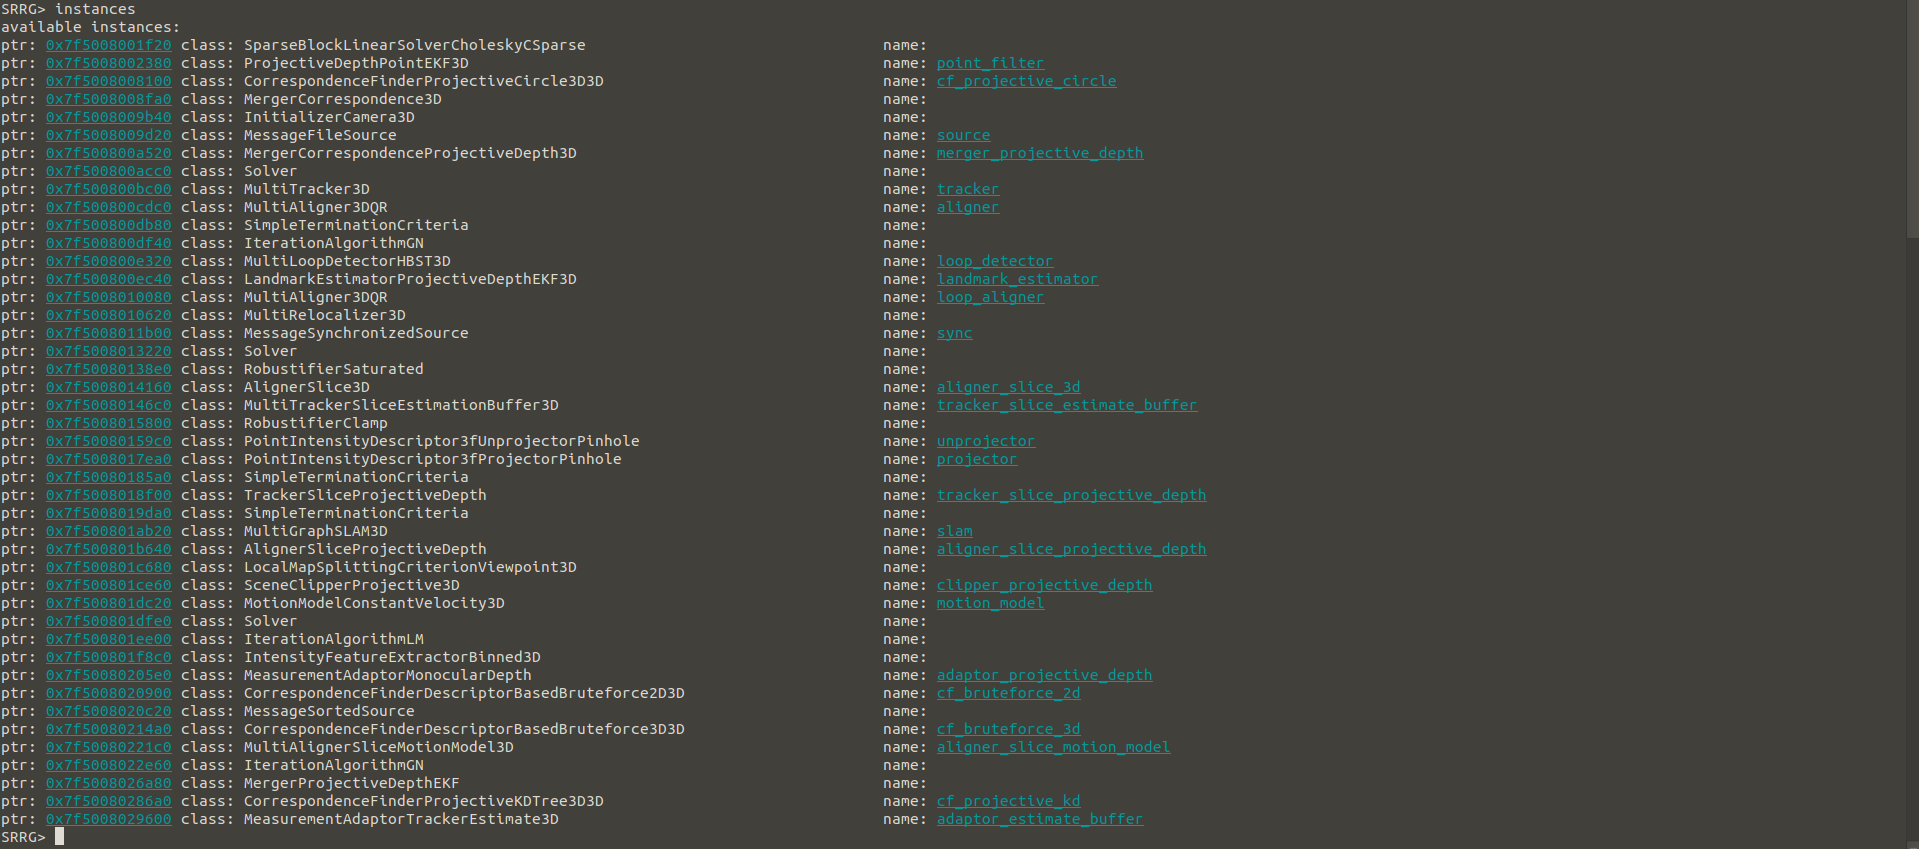
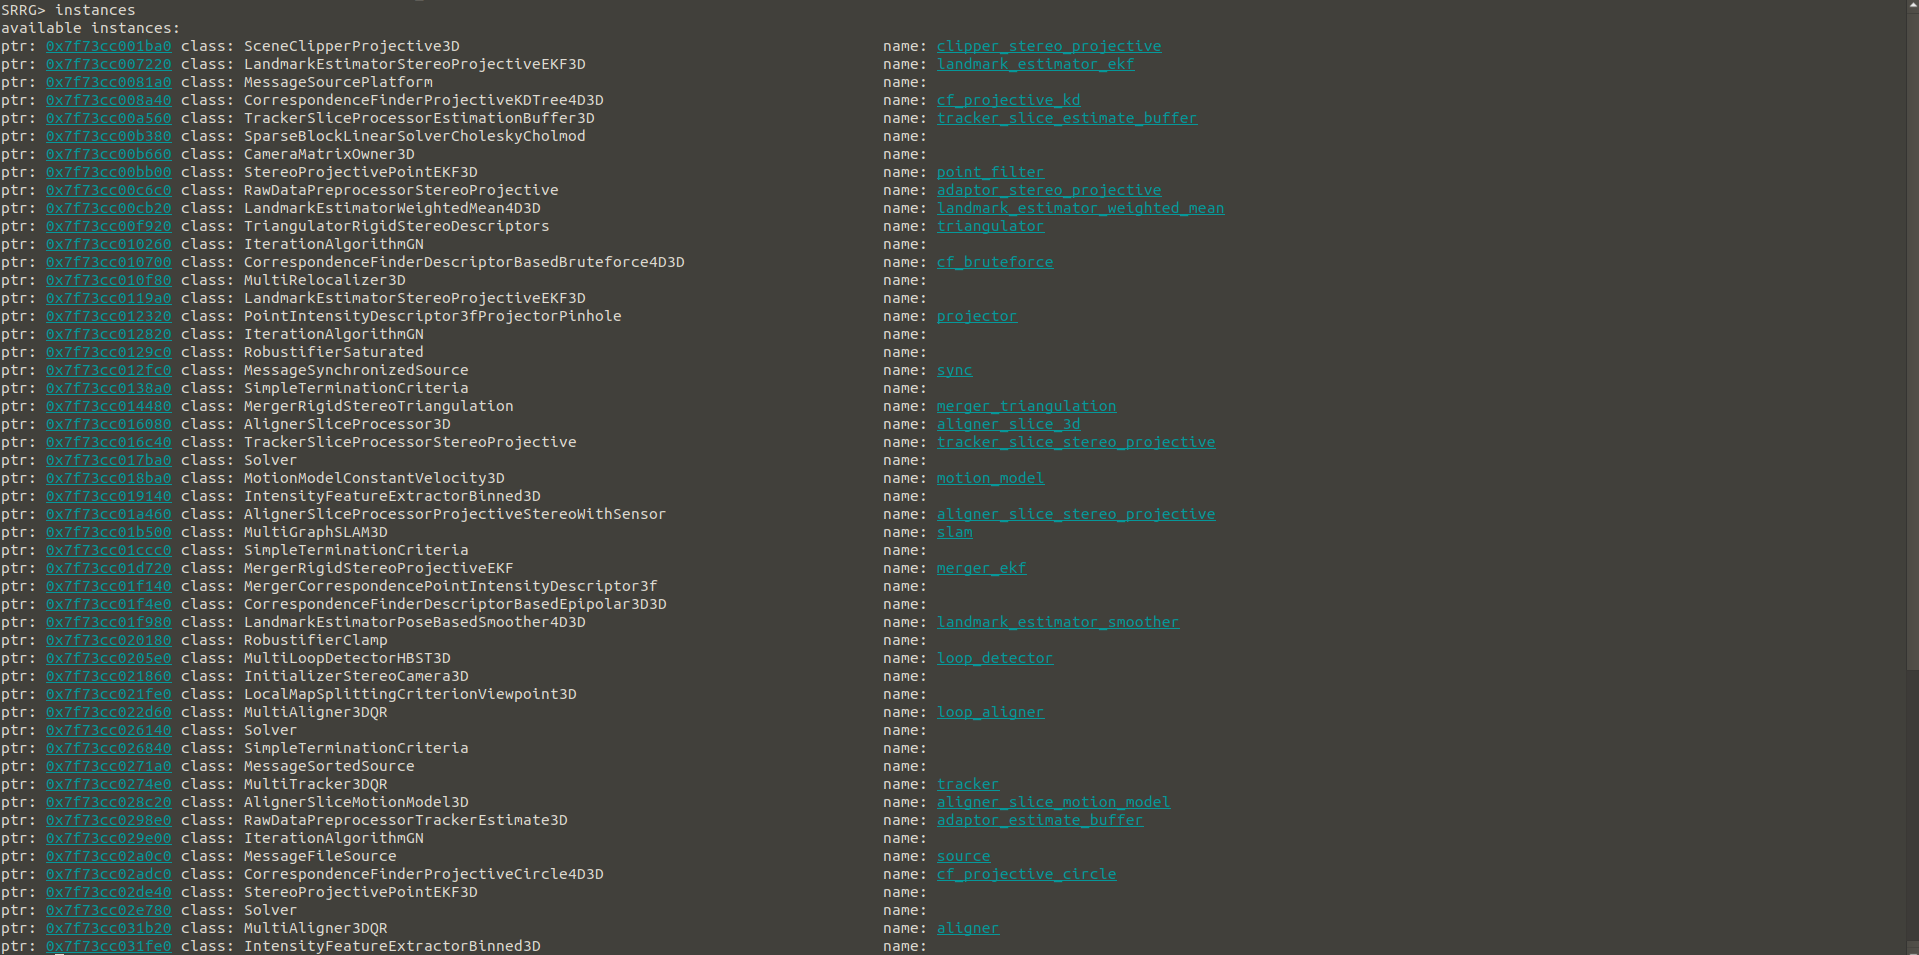
dynamic loading of types + auto_dl_finder + removed all dependencies from useless srrg2 packages

Changed region(s): [[0.0, 0.0, 0.3689, 1.0], [0.4612, 0.0306, 0.6456, 1.0]]

diff --git a/srrg2_executor/src/apps/srrg2_shell.cpp b/srrg2_executor/src/apps/srrg2_shell.cpp
@@ -1,27 +1,14 @@
+#include <dlfcn.h>
+#include <stdlib.h>
+#include <gnu/lib-names.h>
+#include <thread>
 #include <srrg_boss/json_object_writer.h>
 #include <srrg_config/configurable_manager.h>
 #include <srrg_config/configurable_visual_shell.h>
 #include <srrg_config/linenoise.h>
 #include <srrg_system_utils/parse_command_line.h>
 #include <srrg_system_utils/system_utils.h>
-
-// ia basic instances
-#include <srrg_messages/instances.h>
-#include <srrg_messages_ros/instances.h>
-#include <srrg_pcl/instances.h>
-#include <srrg_slam_interfaces/instances.h>
-
-// ia solver instances
-#include <srrg_solver/variables_and_factors/types_2d/instances.h>
-#include <srrg_solver/variables_and_factors/types_3d/instances.h>
-//#include <srrg_solver/calib/instances.h>
-//#include <srrg_solver/linear_solvers/instances.h>
-#include <srrg_solver/solver_core/instances.h>
-
-// ia full systems instances
-#include <srrg2_proslam_tracking/instances.h>
-#include <srrg_laser_slam_2d/instances.h>
-//#include <srrg_shaslam_system/instances.h>
+#include <srrg_system_utils/profiler.h>
 
 // viewer
 #include <srrg_qgl_viewport/viewer_core_shared_qgl.h>
@@ -36,29 +23,13 @@ using namespace srrg2_core;
 using namespace std;
 
 // ia logging
-const std::string app_name("srrg2_shell_app");
+const std::string app_name("srrg2_shell");
 #define LOG std::cerr << app_name + "|"
-
-void registerAllInstances() {
-  srrg2_core::point_cloud_registerTypes();
-  srrg2_core::messages_registerTypes();
-  srrg2_core_ros::messages_ros_registerTypes();
-  srrg2_solver::solver_registerTypes();
-  srrg2_solver::registerTypes2D();
-  srrg2_solver::registerTypes3D();
-  //srrg2_solver::calib_registerTypes();
-  srrg2_laser_tracker_2d::laser_tracker_2d_registerTypes();
-  srrg2_slam_interfaces::slam_interfaces_registerTypes();
-  srrg2_proslam::srrg2_proslam_tracking_registerTypes();
-  //srrg2_shaslam::srrg2_shaslam_registerTypes();
-  //  srrg2_slam_architecture::slam_architecture_multi_graph_sm_registerTypes();
-}
 
 const char* banner[] = {"dynamic executor", 0};
 
 int main(int argc, char** argv) {
   srrgInit(argc, argv, "shell");
-  registerAllInstances();
   Profiler::enable_logging = true;
 
   ParseCommandLine cmd_line(argv, banner);
@@ -75,9 +46,19 @@ int main(int argc, char** argv) {
     "to increse this number [default is 50MB]",
     BUFFER_SIZE_50MEGABYTE);
   ArgumentString conf_file(&cmd_line, "c", "config-file", "config file to load on start", "");
+  ArgumentString dl_stub_file(&cmd_line, "dlc", "dl-config", "stub where to read/write the stub", "");
   cmd_line.parse();
   const std::string exe_name = argv[0];
 
+  if (dl_stub_file.isSet()) {
+    ifstream is(dl_stub_file.value());
+    if (is.good()) {
+      ConfigurableManager::initFactory(dl_stub_file.value());
+    } else {
+      ConfigurableManager::makeFactoryStub(dl_stub_file.value());
+    }
+  }
+  ConfigurableManager manager;
   StringVector commands;
   if (conf_file.isSet()) {
     std::string open_command = std::string("open ") + conf_file.value();
@@ -131,7 +112,7 @@ int main(int argc, char** argv) {
   }
 
   // ds allocate a shell with visualization support
-  ConfigurableVisualShell shell;
+  ConfigurableVisualShell shell(manager);
   if (viewer_core) {
     shell.viewer_core = viewer_core;
     viewer_core->stop();

diff --git a/srrg2_executor/src/apps/auto_dl_finder.cpp b/srrg2_executor/src/apps/auto_dl_finder.cpp
@@ -1,0 +1,86 @@
+#include <cstdio>
+#include <cstdlib>
+#include <srrg_boss/serializer.h>
+#include <srrg_config/configurable_manager.h>
+#include <srrg_system_utils/parse_command_line.h>
+#include <srrg_system_utils/system_utils.h>
+#include <unistd.h>
+
+#ifdef DEVEL_SPACE
+std::string devel_space = DEVEL_SPACE;
+#endif
+
+#define MAX_PATH_LEN 512
+
+using namespace srrg2_core;
+// srrg getting bash output [link:
+// https://www.jeremymorgan.com/tutorials/c-programming/how-to-capture-the-output-of-a-linux-command-in-c/]
+std::vector<std::string> getStdOutFromCommand(std::string& cmd) {
+  std::vector<std::string> data;
+  FILE* stream;
+  const int max_buffer = 2048;
+  char buffer[max_buffer];
+  cmd += " 2>&1";
+
+  stream = popen(cmd.c_str(), "r");
+  if (stream) {
+    while (!feof(stream)) {
+      if (fgets(buffer, max_buffer, stream) != NULL) {
+        data.push_back(buffer);
+      }
+    }
+    pclose(stream);
+  }
+  return data;
+}
+const char* banner[] = {"auto dl finder", "assumption: using catkin as building system", 0};
+
+int main(int argc, char** argv) {
+#ifndef DEVEL_SPACE
+  std::cerr << "NO DEVEL SPACE DEFINED" << std::endl;
+  return -1;
+#endif
+
+  srrgInit(argc, argv, "auto_dl_finder");
+
+  char cwd[MAX_PATH_LEN];
+  if (!getcwd(cwd, MAX_PATH_LEN)) {
+    throw std::runtime_error("unable to get the current working directory");
+  }
+  ParseCommandLine cmd_line(argv, banner);
+  ArgumentString dl_stub_file(
+    &cmd_line, "dlc", "dl-config", "stub where to read/write the stub", "dl.conf");
+  cmd_line.parse();
+
+  std::string stripped_devel_space = devel_space.substr(0, devel_space.find("devel") + 5);
+  std::cerr << "looking for dynamic libraries in " << stripped_devel_space << std::endl;
+
+  std::string output_file(cwd);
+  output_file += "/" + dl_stub_file.value();
+  Serializer ser;
+  ser.setFilePath(output_file);
+  DynamicLoaderConfig loader;
+
+  loader.so_paths.pushBack(stripped_devel_space);
+  if (chdir(stripped_devel_space.c_str()) != 0) {
+    std::string error_message = "unable to chdir to " + stripped_devel_space;
+    throw std::runtime_error(error_message.c_str());
+  };
+  std::string command = "find * \\( -type l -o -type f \\) -name '*.so' ";
+  // srrg exclude already loaded libraries
+  //  command += "! -path '*_core*' ! -path '*qgl_viewport*' ";
+  std::vector<std::string> things = getStdOutFromCommand(command);
+
+  for (auto a : things) {
+    a.erase(std::remove(a.begin(), a.end(), '\n'), a.end());
+    loader.so_names.pushBack(a);
+  }
+
+  for (int i = 0; i < loader.so_names.size(); ++i) {
+    std::cerr << loader.so_names.value(i) << std::endl;
+  }
+
+  std::cerr << "serializing " << output_file << std::endl;
+  ser.writeObject(loader);
+  return 0;
+}

diff --git a/srrg2_executor/readme.md b/srrg2_executor/readme.md
@@ -1,6 +1,6 @@
 # Package `srrg2_executor`
 
-Interactive shell to run and modify configurations on the fly. Viewer can be attached (both locally - in shared mode - and remotely - in ROS mode). Dependencies: the complete `srrg2` suite (for now). Dynamic types loading is coming soon.
+Interactive shell to run and modify configurations on the fly. Viewer can be attached (both locally - in shared mode - and remotely - in ROS mode). Dependencies: [srrg2_core](https://github.com/srrg-sapienza/srrg2_core.git) and [srrg2_qgl_viewport](https://github.com/srrg-sapienza/srrg2_qgl_viewport.git). All the other package libraries are loaded dynamically.
 
 ## How to build
 The `srrg2_executor` is developed using our `srrg2` framework.
@@ -12,14 +12,9 @@ Please follow this guide to build and run `srrg2_executor` on your machine:
 2. clone all the `srrg2` dependencies of this package
 ```bash
 cd <SRRG2_SOURCE_ROOT>
-git clone https://gitlab.com/srrg-software/srrg_hbst.git # VPR library (to compute loop closures in Visual-SLAM pipelines)
 git clone https://github.com/srrg-sapienza/srrg2_cmake_modules.git # basic cmake-modules
 git clone https://github.com/srrg-sapienza/srrg2_core.git # core data-structures and
-git clone https://github.com/srrg-sapienza/srrg2_solver.git # solver (both for registration and global optimization)
 git clone https://github.com/srrg-sapienza/srrg2_qgl_viewport.git # viewport
-git clone https://github.com/srrg-sapienza/srrg2_slam_interfaces.git # SLAM interfaces
-git clone https://github.com/srrg-sapienza/srrg2_laser_slam_2d.git # 2D-LiDAR pipeline
-git clone https://github.com/srrg-sapienza/srrg2_proslam.git # v-SLAM pipeline
 ```
 
 3. clone this repository
@@ -35,12 +30,8 @@ ln -s <SRRG2_SOURCE_ROOT>/srrg2_cmake_modules .
 ln -s <SRRG2_SOURCE_ROOT>/srrg_hbst/ .
 ln -s <SRRG2_SOURCE_ROOT>/srrg2_core/srrg2_core .
 ln -s <SRRG2_SOURCE_ROOT>/srrg2_core/srrg2_core_ros .
-ln -s <SRRG2_SOURCE_ROOT>/srrg2_solver/srrg2_solver .
 ln -s <SRRG2_SOURCE_ROOT>/srrg2_qgl_viewport/srrg2_qgl_viewport .
 ln -s <SRRG2_SOURCE_ROOT>/srrg2_qgl_viewport/srrg2_qgl_viewport_ros .
-ln -s <SRRG2_SOURCE_ROOT>/srrg2_slam_interfaces/srrg2_slam_interfaces .
-ln -s <SRRG2_SOURCE_ROOT>/srrg2_laser_slam_2d/srrg2_laser_slam_2d .
-ln -s <SRRG2_SOURCE_ROOT>/srrg2_proslam/srrg2_proslam .
 ln -s <SRRG2_SOURCE_ROOT>/srrg2_executor/srrg2_executor .
 ```
 
@@ -57,7 +48,8 @@ catkin build --catkin-make-args tests
 ```
 
 ## How to run
-The executor has just one executable - the `srrg2_shell`. You can either load, modify and run your configuration - using the option `-c` - or generate one on the fly and then run it. For more details run:
+This package offers 2 executable: `auto_dl_finder` and `srrg2_shell`. The former reads the catkin `devel` dir created after the build step and generates a file with all the `srrg2` dynamic libraries. This is then passed as **mandatory** argument to `srrg2_shell`, to load at runtimes all the libraries required to run a specific pipelines.
+Through `srrg2_shell` you can either load, modify and run your configuration - using the option `-c` - or generate one on the fly and then run it. For more details run:
 ```sh
 source <SRRG2_WS_ROOT>/devel/setup.bash
 rosrun srrg2_executor srrg2_shell -h
@@ -65,10 +57,18 @@ rosrun srrg2_executor srrg2_shell -h
 
 Warning: to execute the shell you to have the `roscore` active in your system.
 
-###### Example
-1. Run the `srrg2_shell` application
+###### Example: how to run a pipeline configuration from `srrg2_executor`
+In this case, we assume to have a pipeline configuration - e.g. [srrg2_proslam](https://github.com/srrg-sapienza/srrg2_proslam.git) - named `config_proslam.json`.
+
+1. Run the `auto_dl_finder` and collect all `srrg2` dynamic libraries into a file. If you already have this file, this step might not be necessary.
 ```bash
 source <SRRG2_WS_ROOT>/devel/setup.bash
+rosrun srrg2_executor auto_dl_finder -dlc srrg2_dynamic_libraries.txt # srrg2_dynamic_libraries.txt is the output file
+```
+![executor-auto-dl-finder-step](../screenshots/executor-auto-dl-finder.png)
+
+1. Run the `srrg2_shell` application
+```bash
 rosrun srrg2_executor srrg2_shell -c <path>/<to>/<a>/<configuration>/<file> -vt shared
 ```
 
